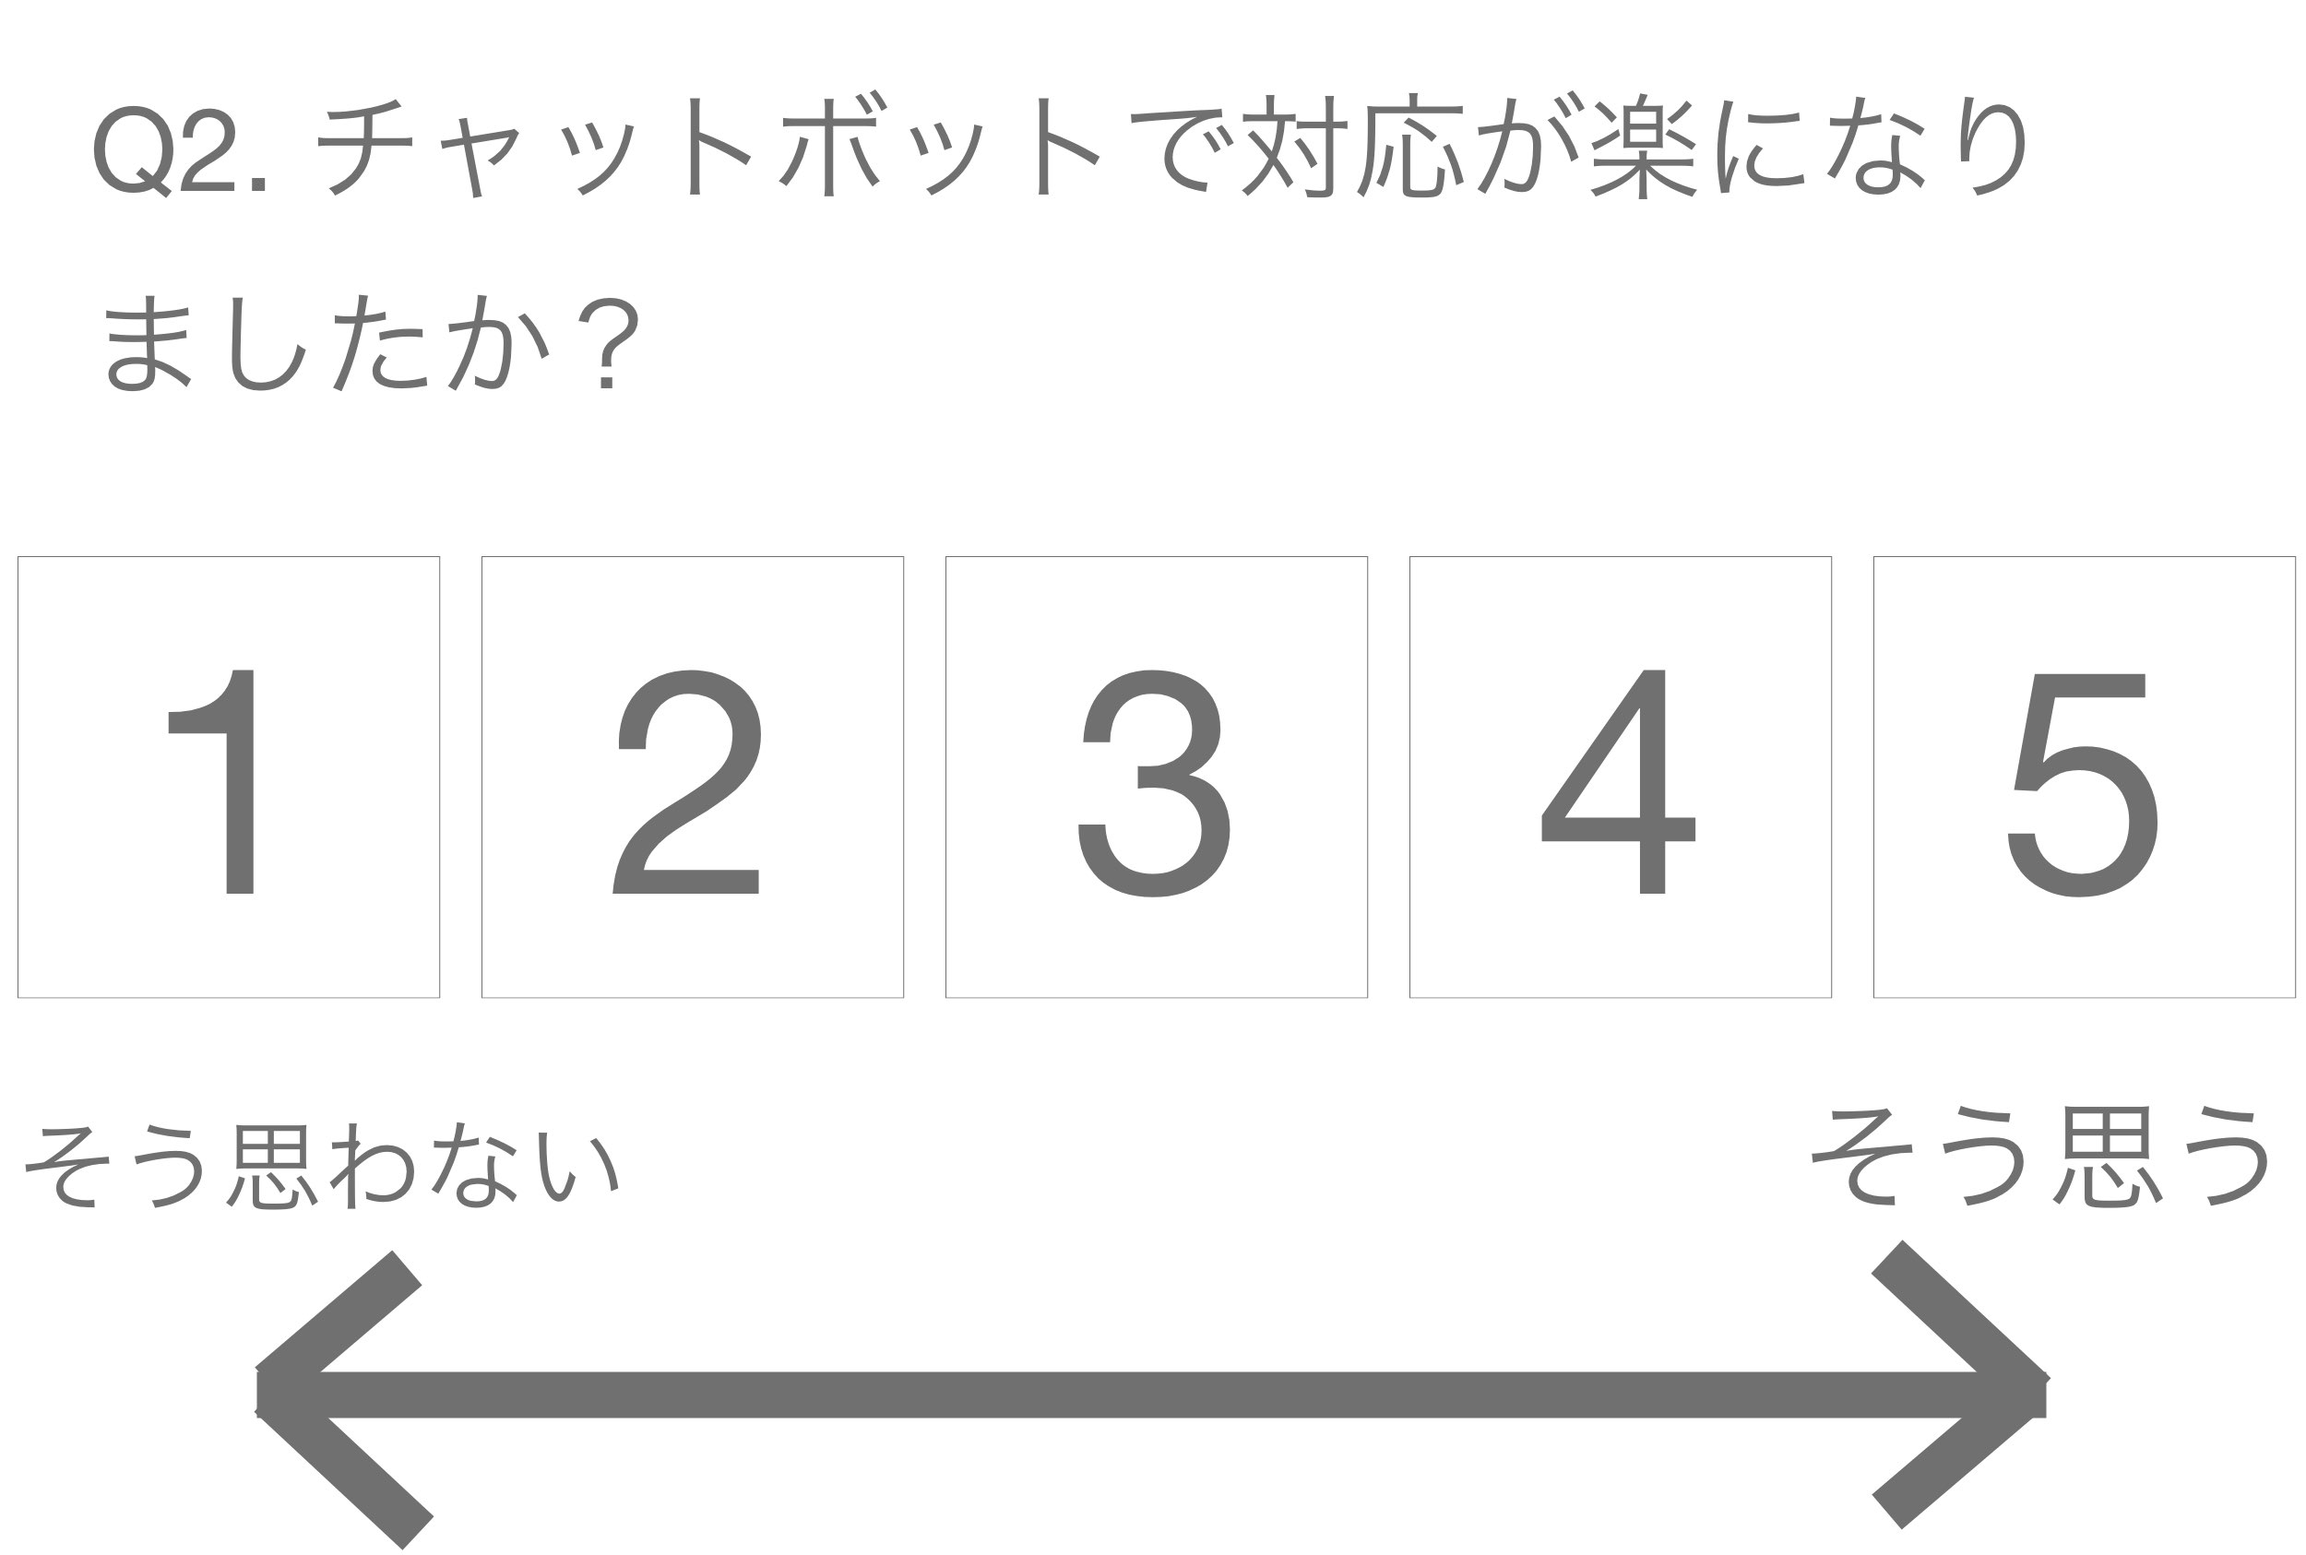
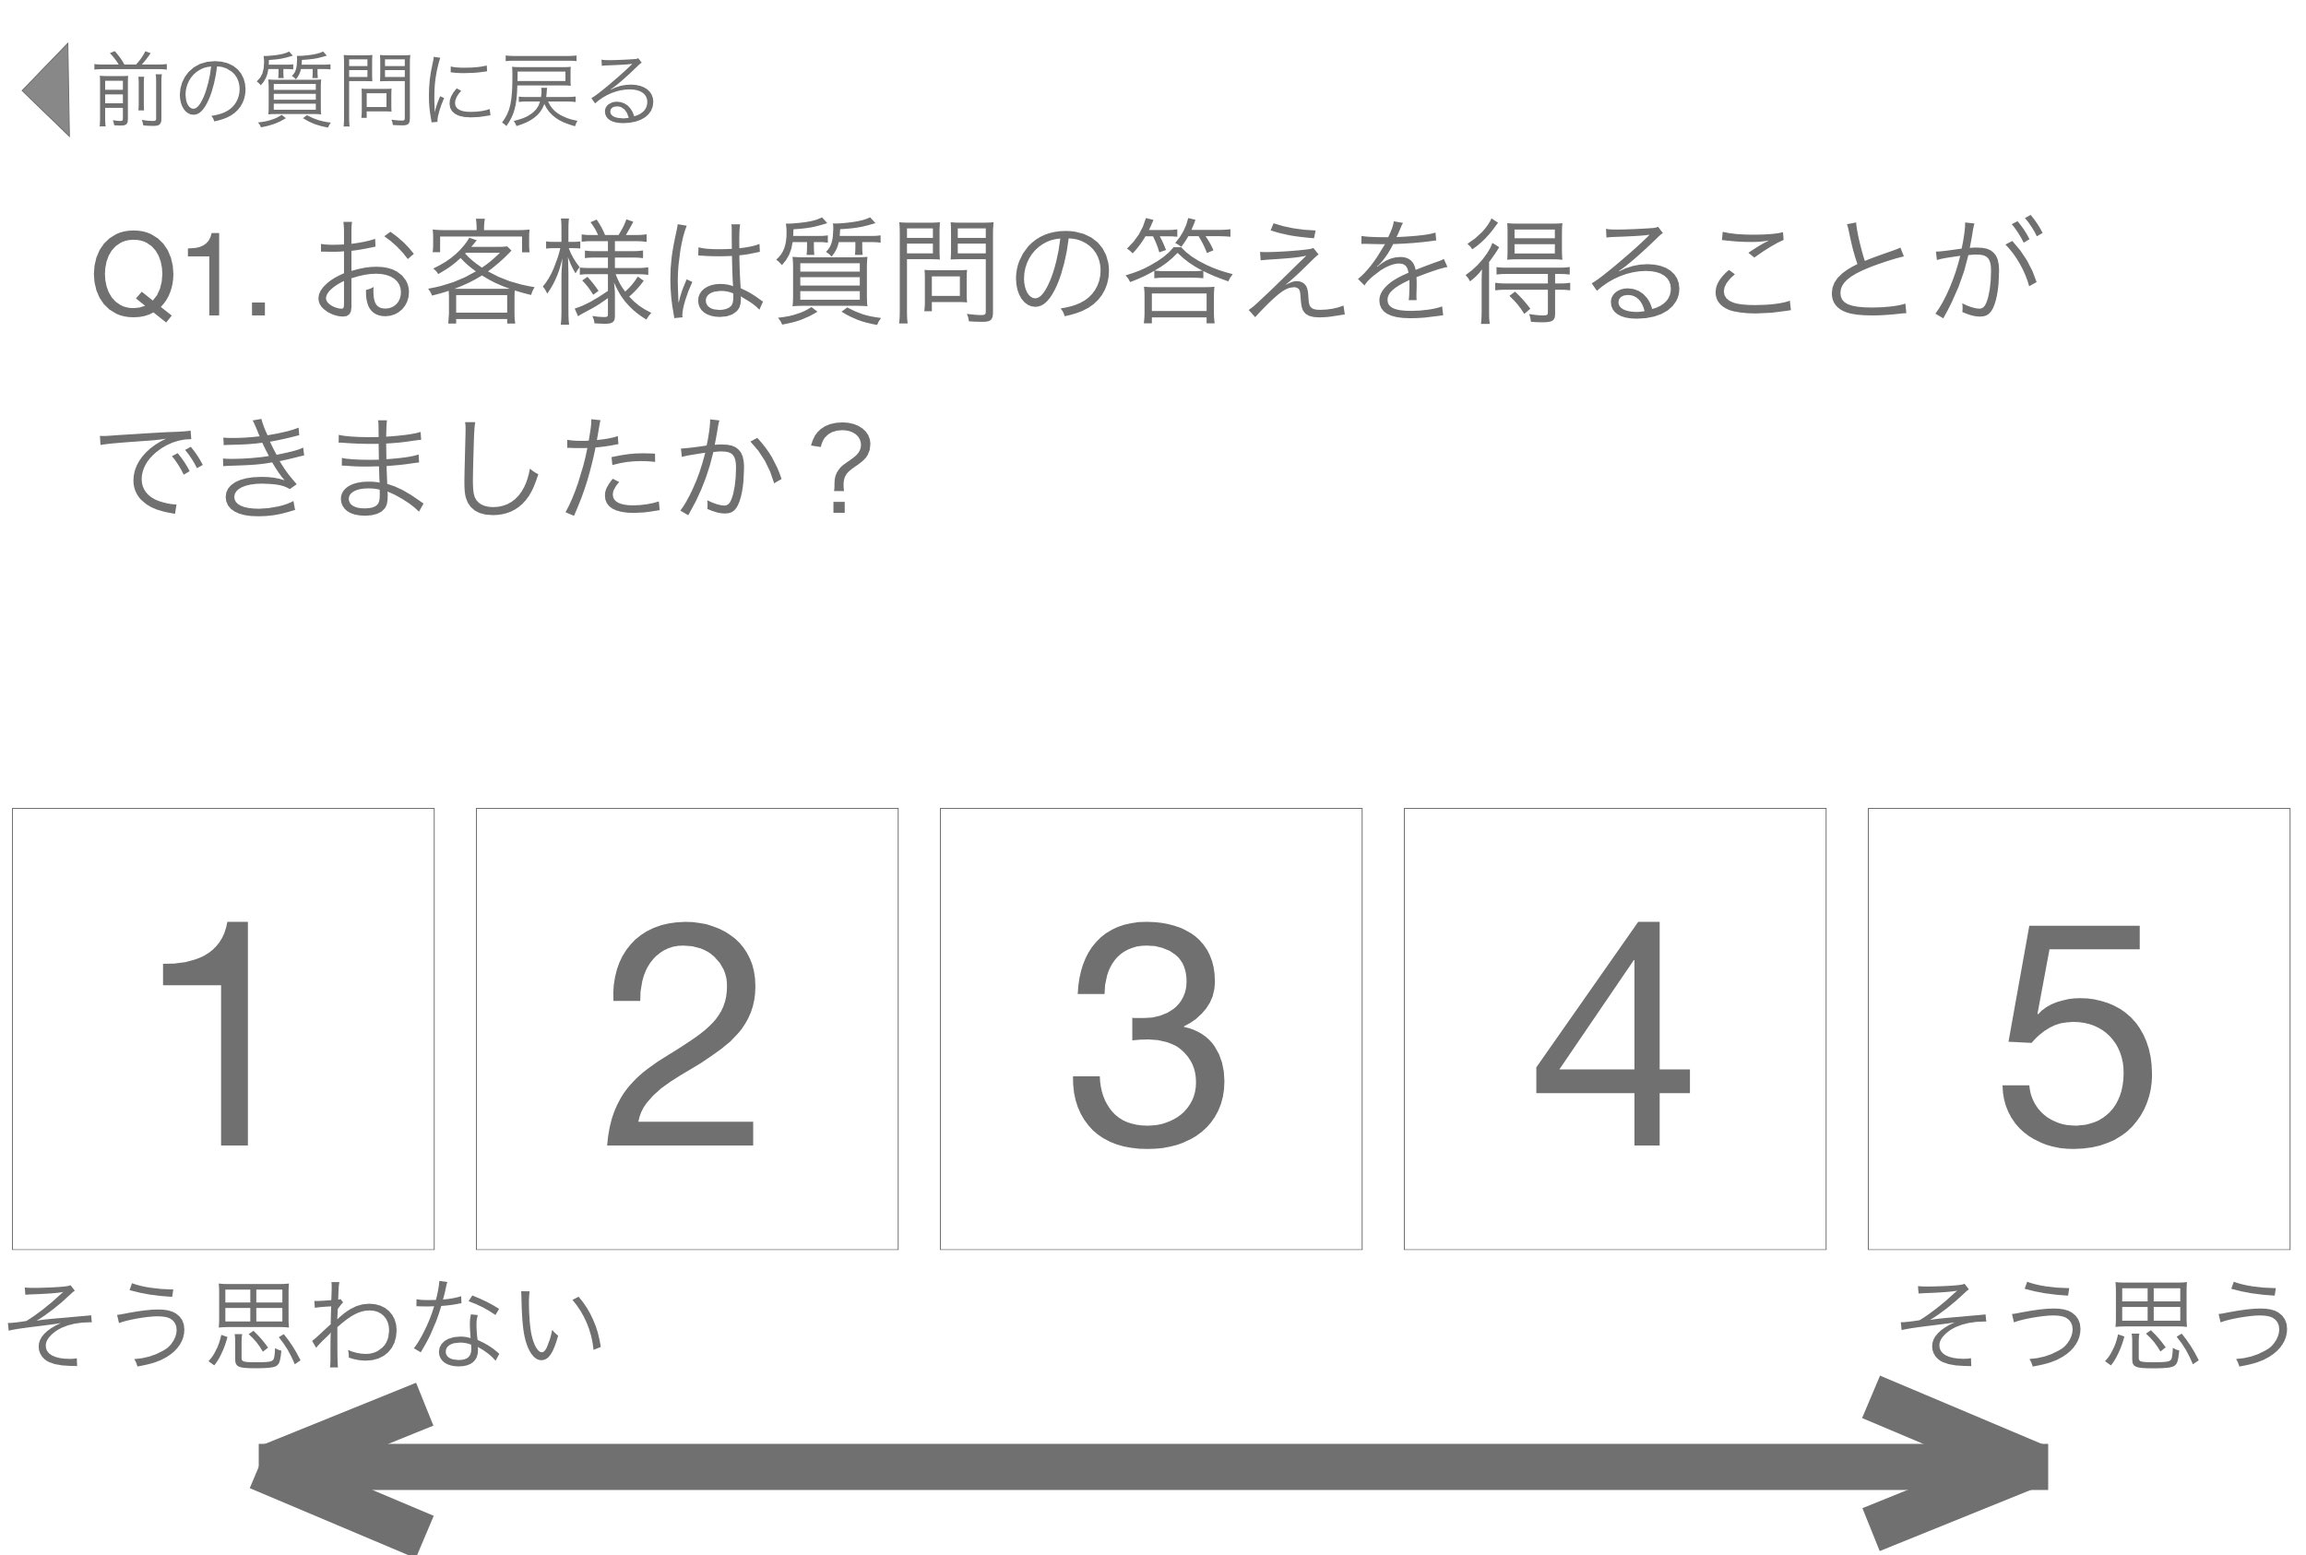
image map test

diff --git a/richmenu_test.py b/richmenu_test.py
@@ -15,34 +15,32 @@ rms = rmm.get_list()
 # rmm.remove(latest_menu_id)
 # print(f"richmenu {latest_menu_id} deleted")
 
-q1_rm_ids = [rm["richMenuId"] for rm in rms["richmenus"] if rm["name"] == "q1"]
-for id in q1_rm_ids:
-    rmm.remove(id)
-    print(f"richmenu q1 {id} deleted")
 
-q2_rm_ids = [rm["richMenuId"] for rm in rms["richmenus"] if rm["name"] == "q2"]
-for id in q2_rm_ids:
-    rmm.remove(id)
-    print(f"richmenu q2 {id} deleted")
+def register_survey_richmenu(index):
+    global id, rm, res
+    i = index + 1
 
-rm = RichMenu(name="q1", chat_bar_text="質問1", size_full=True)
-rm.add_area(0, 0, 200, 200, "postback", "init")
-rm.add_area(19, 603, 458, 480, "postback", "q1=1")
-rm.add_area(502, 603, 458, 480, "postback", "q1=2")
-rm.add_area(1025, 603, 458, 480, "postback", "q1=3")
-rm.add_area(1528, 603, 458, 480, "postback", "q1=4")
-rm.add_area(2031, 603, 458, 480, "postback", "q1=5")
+    q1_rm_ids = [rm["richMenuId"] for rm in rms["richmenus"] if rm["name"] == f"q{i}"]
 
-res = rmm.register(rm, "./richmenus/survey.jpg")
+    for id in q1_rm_ids:
+        rmm.remove(id)
+        print(f"richmenu q{i} {id} deleted")
 
-rm = RichMenu(name="q2", chat_bar_text="質問2", size_full=True)
-rm.add_area(0, 0, 200, 200, "postback", "init")
-rm.add_area(19, 603, 458, 480, "postback", "q2=1")
-rm.add_area(502, 603, 458, 480, "postback", "q2=2")
-rm.add_area(1025, 603, 458, 480, "postback", "q2=3")
-rm.add_area(1528, 603, 458, 480, "postback", "q2=4")
-rm.add_area(2031, 603, 458, 480, "postback", "q2=5")
+    rm = RichMenu(name=f"q{i}", chat_bar_text=f"質問{i}", size_full=True)
+    rm.add_area(0, 0, 752, 142, "postback", f"back_to_q{i-1}")
+    rm.add_area(2000, 0, 750, 140, "postback", "init")
+    rm.add_area(13, 876, 458, 480, "postback", f"q{i}=1")
+    rm.add_area(516, 876, 458, 480, "postback", f"q{i}=2")
+    rm.add_area(1019, 876, 458, 480, "postback", f"q{i}=3")
+    rm.add_area(1522, 876, 458, 480, "postback", f"q{i}=4")
+    rm.add_area(2025, 876, 458, 480, "postback", f"q{i}=5")
+    res = rmm.register(rm, f"/Users/ryo/gitWorks/heroku_tsukuba_line_bot/richmenus/survey – {i}.jpg")
 
-res = rmm.register(rm, "./richmenus/survey – 1.jpg")
-rms = rmm.get_list()
-print(rms)
+
+if __name__ == '__main__':
+
+    for i in range(3):
+        register_survey_richmenu(i)
+
+    rms = rmm.get_list()
+    print(rms)

diff --git a/main.py b/main.py
@@ -2850,7 +2850,16 @@ def handle_postback(event):
         latest_menu_init_id = menu_init_rm['richMenuId']
         rmm.apply(event.source.user_id, latest_menu_init_id)
 
-
+    # back_to_q1
+    if "back" in data_str:
+        question_number = data_str[-1]
+        line_bot_api.reply_message(
+            event.reply_token,
+            TextSendMessage(text=f"{data_str}. 前の質問に戻ります。もう一度選択してください。")
+        )
+        menu_init_rm = [rm for rm in rms["richmenus"] if rm["name"] == 'q' + str(int(question_number))][0]
+        latest_menu_init_id = menu_init_rm['richMenuId']
+        rmm.apply(event.source.user_id, latest_menu_init_id)
 
 
 @handler.add(MessageEvent, message=LocationMessage)

diff --git a/image_generator.py b/image_generator.py
@@ -50,7 +50,7 @@ for id in menu_init_rm_ids:
     print(f"richmenu {id} deleted")
 
 # Setup RichMenu to register
-rm = RichMenu(name="menu_init", chat_bar_text="問い合わせ分類", size_full=False)
+rm = RichMenu(name="menu_init", chat_bar_text="問合わせ分類", size_full=False)
 
 for i, word in enumerate(trigger_words):
 
